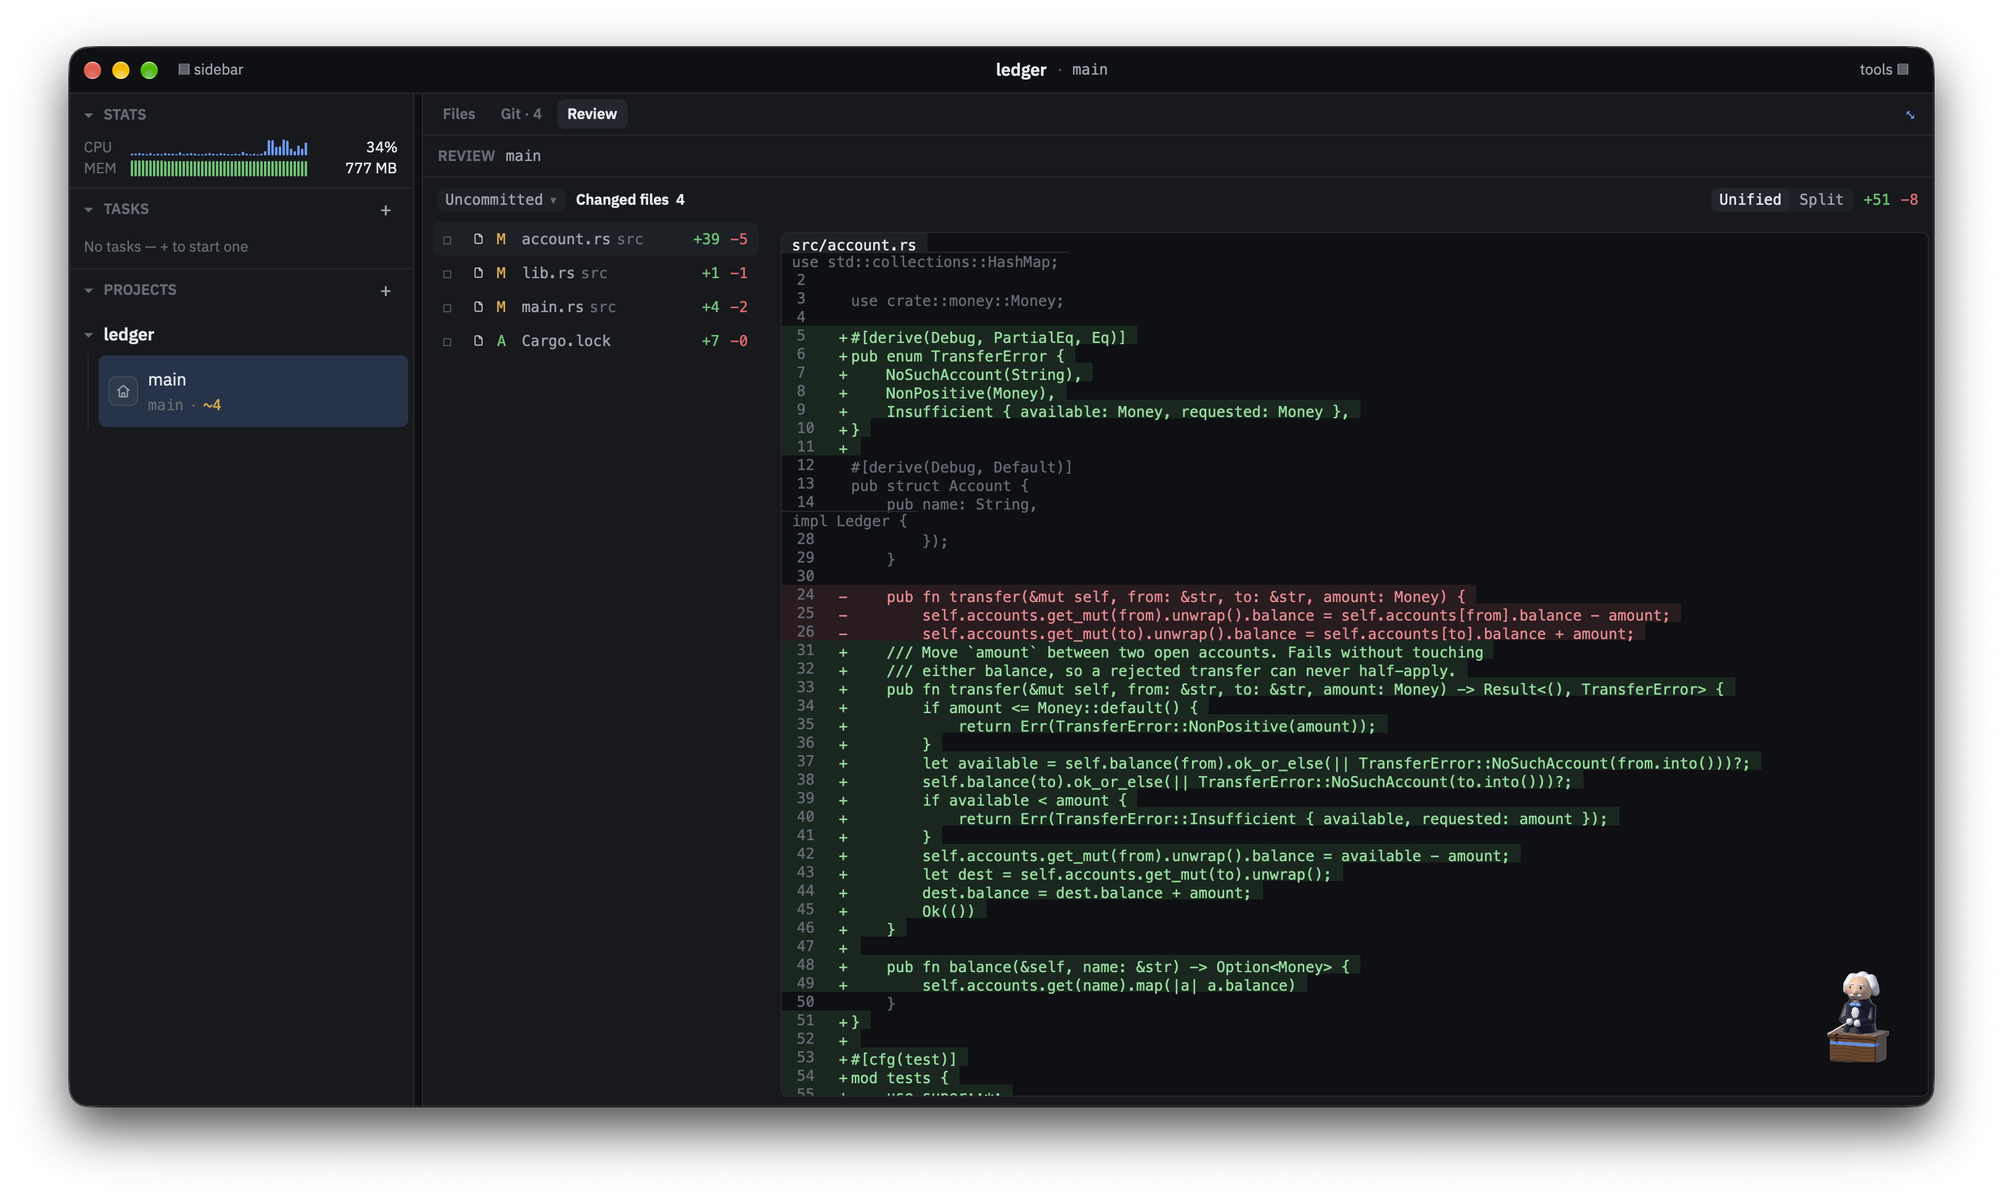
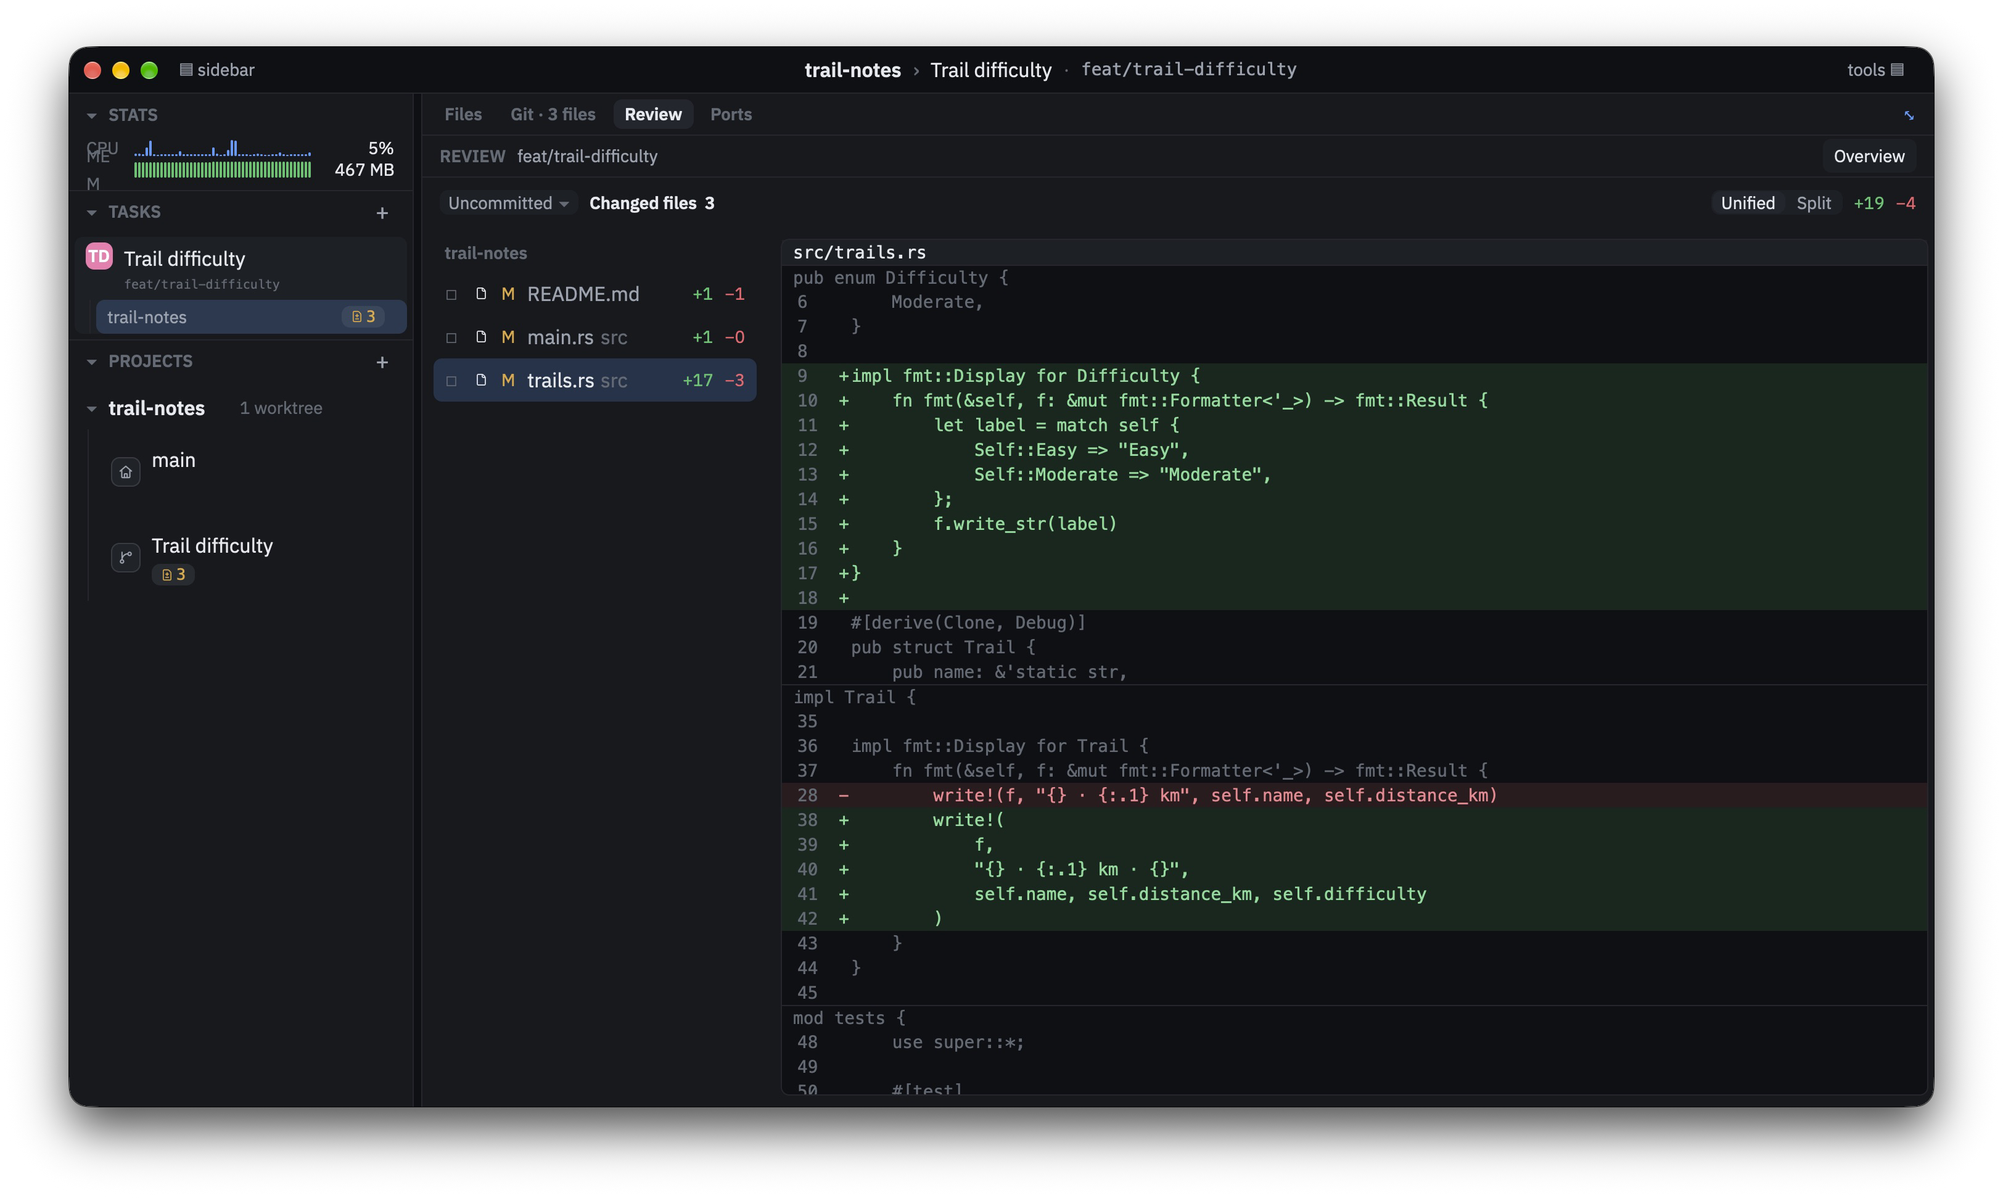
docs: streamline README and refresh screenshots

diff --git a/README.md b/README.md
@@ -1,5 +1,5 @@
 <p align="center">
-  <img src="assets/openorchestra_1024.png" width="128" height="128" alt="openOrchestra app icon">
+  <img src="assets/openorchestra_1024.png" width="96" height="96" alt="openOrchestra app icon">
 </p>
 
 <h1 align="center">openOrchestra</h1>
@@ -7,261 +7,84 @@
 <p align="center">
   <a href="https://github.com/omarpr/openorchestra/actions/workflows/ci.yml"><img src="https://github.com/omarpr/openorchestra/actions/workflows/ci.yml/badge.svg?branch=master" alt="CI"></a>
   <a href="https://github.com/omarpr/openorchestra/releases/latest"><img src="https://img.shields.io/github/v/release/omarpr/openorchestra?sort=semver&label=release" alt="Latest release"></a>
-  <a href="packaging/homebrew/README.md"><img src="https://img.shields.io/badge/brew-omarpr%2Ftap%2Fopenorchestra-orange?logo=homebrew&logoColor=white" alt="Homebrew: brew install --cask omarpr/tap/openorchestra"></a>
-  <img src="https://img.shields.io/badge/macOS-12%2B-black?logo=apple&logoColor=white" alt="macOS 12 or later">
-  <a href="LICENSE"><img src="https://img.shields.io/badge/license-GPL--3.0--or--later-blue" alt="License: GPL-3.0-or-later"></a>
-  <img src="https://img.shields.io/badge/built%20with-Rust%20%2B%20GPUI-dea584?logo=rust&logoColor=white" alt="Built with Rust and GPUI">
-  <a href="https://join.slack.com/t/openorchestra-group/shared_invite/zt-4h5n9li83-bbPit9xyTUvizQt7wh9bgQ"><img src="https://img.shields.io/badge/Slack-join%20the%20community-4A154B?logo=slack&logoColor=white" alt="Join the openOrchestra Slack"></a>
+  <a href="LICENSE"><img src="https://img.shields.io/badge/license-GPL--3.0--or--later-blue" alt="License GPL-3.0-or-later"></a>
 </p>
 
-A native macOS workspace for running coding agents (pi, Claude Code, Codex,
-OpenCode, Kimi and Grok) in parallel, each in its own git worktree, next to a
-real embedded zed editor. Agents live in tmux sessions, so they keep running when the
-app closes. Their changes appear in a diff panel you can review and comment on,
-and a native notification tells you when one needs you. Tasks that span several
-repos get one specialist agent per repo, coordinated over a localhost A2A
-broker.
+A native macOS workspace for running coding agents in parallel Git worktrees, editing
+with Zed, and reviewing changes before you ship. openOrchestra runs locally and
+requires no openOrchestra account. It collects no telemetry.
 
-Everything runs on your Mac. There's no account, no cloud and no telemetry.
-
-![A Claude Code agent running in a worktree, with the sidebar on the left and the git changes panel on the right](docs/screenshots/running-agent.png)
-
-## Features
-
-- **Tasks in worktrees.** `⌘N` creates a task: a git worktree on its own
-  branch, with its own terminals, editor and agent. The sidebar groups tasks by
-  project and shows each one's branch, PR, ahead/behind, uncommitted changes,
-  CI status, and an agent pill (Running, Waiting, Stopped).
-- **Any agent CLI.** Each agent is the vendor's own CLI with your own login,
-  running in an embedded terminal. A new task starts its agent. A project's main
-  checkout opens with a plain shell, and the tab strip's `＋` adds more agents,
-  terminals or editors.
-- **Sessions that outlive the app.** Every terminal and agent tab is a tmux
-  session. Quitting or crashing doesn't stop the agent, and reopening
-  reattaches.
-- **A real IDE.** `⌘E` opens zed's own workspace for the worktree: file tree,
-  `⌘P` quick-open, `⌘⇧F` project search, the git panel, Markdown preview and
-  zed's language-server support (rust-analyzer for Rust). You get syntax
-  highlighting for every language zed has built in: Rust, TypeScript/TSX,
-  JavaScript, Go (plus go.mod and go.work), Python, C, C++, JSON and JSONC,
-  YAML, CSS, Bash and `.env`, Markdown, diffs, git commit messages, JSDoc and
-  regular expressions.
-- **Diff review.** Each changed file expands inline with real line numbers. You
-  can use a side-by-side view, pick the diff base, and tick "reviewed" boxes
-  that track progress. Click a line number to comment, then copy every comment
-  as feedback for the agent or save them as Markdown. You can push from the
-  diff header.
-- **Multi-repo tasks.** A task can include several projects. Each one gets a
-  specialist agent, and a coordinator agent delegates to them through the A2A
-  broker (`crates/a2a-broker`).
-- **Setup and teardown scripts.** Each project's `⋯` menu has **Edit setup
-  scripts…**. Scripts committed to the repo (`.openorchestra/hooks.toml`) or
-  kept locally run when a worktree is created or archived. Before running
-  committed scripts, the app asks you to confirm.
-- **Notifications.** When an agent is waiting on you, you get a native banner
-  with a **View** button. `⌘⇧A` jumps to the next waiting agent.
-- **Remote control from your phone** on your home network (see below).
-- **Footprint monitor.** The sidebar's STATS band shows the app's own CPU and
-  memory use, broken down by worktree, including the agents' processes.
-
-### The embedded editor
-
-The editor tab is zed's own workspace for the worktree: file tree, syntax
-highlighting and git gutter markers on what the agent changed.
-
-![The embedded zed editor showing a file tree and a Rust file with changed lines marked in the gutter](docs/screenshots/inside-editor.png)
-
-### Reviewing the agent's changes
-
-The Review panel lists the changed files against the chosen base
-(uncommitted work here), with unified or split diffs and real line numbers.
-
-![The Review panel showing four changed files and a unified diff of account.rs](docs/screenshots/embedded-diff.png)
-
-## Requirements
-
-- macOS 12 or later.
-- **git** and **tmux** are required. The app shows a requirements screen until
-  both are found.
-- Recommended: at least one agent CLI (`pi`, `claude`, `codex`, `opencode`,
-  `kimi` or `grok`). Without one, agent tabs fall back to a plain shell.
-- Optional: `gh` (PR and CI badges) and `rust-analyzer` (Rust language
-  features).
-
-The requirements screen lists anything missing, with the command that installs
-it.
+![A pi agent in the Trail Notes worktree with Git changes visible in the tools panel](docs/screenshots/running-agent.png)
 
 ## Install
-
-With [Homebrew](https://brew.sh):
 
 ```sh
 brew install --cask omarpr/tap/openorchestra
 ```
 
-This also installs `tmux`. Or download the `.dmg` from the
-[Releases](https://github.com/omarpr/openorchestra/releases) page. It is a
-universal build (Apple Silicon and Intel), signed and notarized, so it opens
-with a double-click.
+Or download the signed, notarized universal DMG for Apple Silicon and Intel.
+[GitHub Releases](https://github.com/omarpr/openorchestra/releases/latest)
 
-## Build from source
+Requires **macOS 12 or later**, **Git**, and **tmux**. Homebrew installs tmux with
+the app. Install and sign in to the agent CLI you want to use. Install and
+authenticate `gh` to show pull request and CI status.
+
+## Features
+
+- **Parallel tasks.** Press `⌘N` to start a task on its own branch and worktree.
+  Multi-repository tasks can run a specialist in each repo and a coordinator
+  that delegates over a local A2A broker. Setup and teardown hooks can prepare
+  or clean up worktrees.
+- **Agent and shell tabs.** Run OpenCode, Claude Code, Codex, pi, Kimi, Grok, or
+  a custom CLI. tmux keeps sessions running when you quit and lets you reattach
+  when you reopen the app. The sidebar tracks agent activity, Git changes, pull
+  requests, and CI. Native notifications take you back to agents that need input.
+- **Embedded Zed editor.** Open the editor with `⌘E`. Browse files, quick-open
+  with `⌘P`, search the project, preview Markdown, and use syntax highlighting
+  and language-server support.
+- **Diff review.** Choose a comparison base, switch between unified and split
+  diffs, mark files reviewed, and leave line comments. Copy comments into an
+  agent prompt or save them as Markdown.
+- **Review Overview.** Generate a branch and working-tree review with Codex,
+  Claude Code, pi, or Grok. Follow the report’s links into the editor and open
+  a follow-up chat with supported agents.
+- **Local development servers.** The Ports panel finds listening services,
+  including Docker-published ports, and lets you open or copy their URLs.
+  WebKit browser tabs can open local development links alongside the editor and
+  terminals. [Browser tabs are unreleased](CHANGELOG.md#unreleased).
+- **Phone and tablet access.** Share individual agent or shell tabs on your
+  local network. Follow conversations or use the terminal, send replies and
+  screenshots, and dictate on supported Macs. [Remote setup](docs/remote-control.md)
+- **Resource monitoring.** See CPU and memory usage for the app and its
+  worktrees, including agent processes.
+
+<details>
+<summary>Editor and diff review screenshots</summary>
+
+![The embedded Zed editor with Rust syntax highlighting, Git gutter markers, and the file explorer](docs/screenshots/inside-editor.png)
+
+![The Review panel showing changed files and a diff with word-level highlights](docs/screenshots/embedded-diff.png)
+
+</details>
+
+## Develop
+
+Run `make run` for the debug app or build a local app bundle.
 
 ```sh
 make setup && make app && open dist/openOrchestra.app
 ```
 
-- `make setup` installs/verifies the build and runtime tools (idempotent).
-- `make app` builds a release bundle for the host architecture into
-  `dist/openOrchestra.app`.
-- `make dmg` builds a universal (Apple Silicon + Intel) bundle and a `.dmg`
-  beside it. `make dmg-notarized` additionally signs it with Developer ID and
-  notarizes it with Apple, so the download opens on a plain double-click;
-  `make release` does that and publishes to GitHub Releases.
-- First launch will ask for notification permission — that's the
-  "agent needs your attention" banners with their View button.
-
-For development iterations, `make run` builds and launches the debug app in a
-separate `.app` bundle. This lets the development build use native macOS
-notifications; logs remain attached to the terminal.
-
-## Keyboard shortcuts
-
-These are the defaults. You can see and rebind all of them in **Settings →
-Shortcuts** (`⌘,`).
-
-| Shortcut | Action |
-|---|---|
-| `⌘N` | New task |
-| `⌘T` | New terminal tab |
-| `⌘E` | Open the editor (IDE) tab |
-| `⌘⇧C` | New agent chat tab |
-| `⌘W` | Close tab |
-| `⌘⌥↓` / `⌘⌥↑` | Next / previous worktree |
-| `⌘⇧]` / `⌘⇧[` | Next / previous tab |
-| `⌘1`…`⌘8`, `⌘9` | Go to tab N, last tab |
-| `⌘⇧A` | Jump to the next agent waiting on you |
-| `⌘B` | Toggle the sidebar |
-| `⌘⇧B` | Toggle the tools panel |
-| `⌘P` | Find file by name (in the editor) |
-| `⌘⇧F` | Find in files |
-| `⌘⇧D` | Project diff (git) |
-| `⌘⇧G` | Toggle the git panel |
-| `⌘F` | Find in the current file |
-
-## Where state lives
-
-App state is kept under `~/.openorchestra`: preferences, open tabs,
-review comments (`review-notes.json`), saved reviews (`reviews/`), local hook
-overrides (`hooks/`) and the remote-control settings (`remote.json`). Nothing is
-written into your repositories except worktrees and, if you choose, committed
-hook scripts.
-
-## Remote control from your phone
-
-You can follow and type into your agents from a phone or tablet on the same
-home network. Only tabs you mark are reachable; everything else on the Mac
-stays invisible.
-
-1. Right-click a terminal or agent tab and choose **Allow remote control**.
-2. Open **Settings → Remote** and turn it **On** (HTTPS on port 7443).
-3. Click **Add a phone** and scan the QR code. It opens a short setup page that
-   installs and trusts the app's own certificate authority (an iOS profile, or
-   a CA certificate on Android). Check that the fingerprint on the phone
-   matches the one in Settings.
-4. On the phone, open `https://<your-mac-name>.local:7443` (iPhone/iPad), or
-   `https://<Mac IP address>:7443` (Android), and add it to the home screen.
-5. Enter the 8-character pairing code shown in Settings. It works once and
-   expires after 10 minutes.
-
-Android tip: `.local` names often don't resolve on Android, so use the Mac's IP
-address. If the Mac's IP changes, Settings shows a notice and the phone's saved
-address needs updating. Changing the port also means re-adding the app on each
-phone.
-
-The phone app is called openOrchestra. On an iPhone or iPad opened in Safari it
-first asks you to add it to your Home Screen, so you pair once in the installed
-app (a "Pair in this browser instead" link skips that). The agent list shows
-each agent's icon and a status pill (RUNNING, WAITING, STOPPED).
-
-Opening an agent shows a **Conversation | Terminal** switch. For Claude Code and
-pi agents the Conversation view is the default: your messages and the agent's
-replies verbatim (with Markdown), one-line tool calls with a check or cross
-(tap one to see its output, capped at 64 KB), collapsed thinking, and a status
-bar ("Working…" with the current tool, "Needs your input", "Agent stopped").
-Images in replies are not shown. The switch appears once the agent has a transcript (a brand-new Claude Code or
-pi agent shows the Terminal until its first message), and your last choice per
-agent is remembered. Other agents (for example Codex) show the Terminal only.
-
-On the Mac, a chip in the top bar shows whether the current terminal or agent
-tab is reachable from a phone, and **Settings → Remote → Agents on phone**
-turns each tab on or off.
-
-In Settings you can set a device to **Watch only** or **Revoke** it, and keep
-the Mac awake while serving. Phones on the local network only (private
-addresses) are accepted. A manual test list is in
-[`docs/superpowers/plans/2026-11-16-oo-remote-manual-checklist.md`](docs/superpowers/plans/2026-11-16-oo-remote-manual-checklist.md).
-The PWA source is in `web/remote` (`make web` builds it); the server is the
-`oo-remote` crate in `crates/remote`.
-
-## Repository layout
-
-| Path | What it is |
-|---|---|
-| `crates/harness-app` | The GPUI desktop app (its own Cargo workspace, see [CONTRIBUTING](CONTRIBUTING.md)) |
-| `crates/worktrees`, `forge`, `status-watch` | Git worktrees and hooks, `gh` PR/CI polling, agent status signals |
-| `crates/agent-runtime`, `pi-client` | Per-agent launch and status adapters, the pi RPC client |
-| `crates/a2a-broker` | The localhost agent-to-agent broker for multi-repo tasks |
-| `crates/remote` | `oo-remote`, the phone remote-control server |
-| `crates/agent-schema`, `crates/training` | The pi tool contract and session harvesting ([`agent-schema/`](agent-schema/README.md), [`training/`](training/README.md) hold their data and docs) |
-| `pi-ext` | pi extensions loaded per worktree (status signal, harness tools) |
-| `web/remote` | The phone web app (PWA) |
-| `docs` | Design records. [`architecture.md`](docs/architecture.md) is a dated snapshot; `docs/superpowers/` holds specs and plans |
-
-## Contributors
-
-<table>
-  <tr>
-    <td align="center">
-      <a href="https://github.com/omarpr">
-        <img src="https://avatars.githubusercontent.com/u/4412916?v=4" width="88" height="88" alt="omarpr"><br>
-        <sub><b>omarpr</b></sub>
-      </a>
-    </td>
-    <td align="center">
-      <a href="https://github.com/joeswiggin">
-        <img src="https://avatars.githubusercontent.com/u/4819705?v=4" width="88" height="88" alt="joeswiggin"><br>
-        <sub><b>joeswiggin</b></sub>
-      </a>
-    </td>
-    <td align="center">
-      <a href="https://github.com/jakesorce">
-        <img src="https://avatars.githubusercontent.com/u/801470?v=4" width="88" height="88" alt="jakesorce"><br>
-        <sub><b>jakesorce</b></sub>
-      </a>
-    </td>
-  </tr>
-</table>
+View or rebind shortcuts in **Settings → Shortcuts** (`⌘,`).
+[Development setup and contribution guide](CONTRIBUTING.md#development-setup)
 
 ## Community
 
-Join the [openOrchestra Slack](https://join.slack.com/t/openorchestra-group/shared_invite/zt-4h5n9li83-bbPit9xyTUvizQt7wh9bgQ) to ask questions, share how you use it,
-and hear about new releases. Bugs and feature ideas still belong in
-[GitHub issues](https://github.com/omarpr/openorchestra/issues), and security
-reports go through [SECURITY.md](SECURITY.md).
+Join the [Slack community](https://join.slack.com/t/openorchestra-group/shared_invite/zt-4h5n9li83-bbPit9xyTUvizQt7wh9bgQ),
+report bugs or request features in [GitHub Issues](https://github.com/omarpr/openorchestra/issues),
+or follow the [security reporting policy](SECURITY.md). Thanks to
+[omarpr](https://github.com/omarpr), [joeswiggin](https://github.com/joeswiggin),
+[jakesorce](https://github.com/jakesorce), and all
+[contributors](https://github.com/omarpr/openorchestra/graphs/contributors).
 
-## Contributing
-
-[`CONTRIBUTING.md`](CONTRIBUTING.md) covers the setup, the project invariants,
-and the one build gotcha that bites everyone: `crates/harness-app` is outside the
-root workspace, so a root `cargo build` skips it and still reports success.
-By taking part you agree to the [Code of Conduct](CODE_OF_CONDUCT.md).
-
-## License
-
-[GPL-3.0-or-later](LICENSE).
-
-Not a preference — a consequence. openOrchestra embeds a real zed editor, and the
-crates it links (`workspace`, `project`, `editor`, `git_ui`, `search`,
-`terminal`, `theme`, and the rest) are GPL-3.0-or-later, so anything distributed
-with them must be too. `gpui` and `util` are Apache-2.0, which combines into a
-GPLv3 work in that direction.
+[Changelog](CHANGELOG.md) · [Code of Conduct](CODE_OF_CONDUCT.md) · [GPL-3.0-or-later](LICENSE)

diff --git a/docs/remote-control.md b/docs/remote-control.md
@@ -1,0 +1,42 @@
+# Remote control from a phone or tablet
+
+openOrchestra shares selected agent and shell tabs over HTTPS on your local
+network. Keep the phone or tablet on the same network as your Mac.
+
+## Pair a device
+
+1. On the Mac, open **Settings → Remote** and turn remote control on. The
+   default HTTPS port is 7443.
+2. Click **Add a device** and scan the setup QR code. Follow the instructions
+   to install and trust the app’s local certificate authority. Check that the
+   certificate fingerprint shown on the device matches the one in Settings.
+3. Open the HTTPS address displayed on the Mac. On Android, use the Mac’s IP
+   address if its `.local` name fails to resolve. On iPhone or iPad, Safari
+   offers to add openOrchestra to the Home Screen so you can pair in the
+   installed web app. You can also choose **Pair in this browser instead**.
+4. Enter the eight-character pairing code from the Mac. The code works once
+   and expires after 10 minutes.
+
+If the Mac’s IP address or remote port changes, update the address on the
+device or add the web app to your Home Screen again.
+
+## Share and use tabs
+
+Right-click an agent or shell tab on the Mac and select **Allow remote control**.
+Use **Settings → Remote → Agents on phone** to manage shared tabs in one place.
+The top bar shows whether the selected tab is available remotely.
+
+Open a shared tab on your device to see its status and interact with it.
+Conversation view becomes available when a supported agent produces a
+transcript. Claude Code, Codex, OpenCode 2.x, and pi are supported. You can
+switch to **Terminal** at any time. For writable tabs, you can attach PNG,
+JPEG, and WebP screenshots up to 8 MiB. Dictation uses on-device transcription
+on supported Macs running macOS 26 or later.
+
+In **Settings → Remote**, set a paired device to **Watch only** to disable input
+or select **Revoke** to remove access. You can also keep the Mac awake while
+remote control is on.
+
+The remote client lives in [`web/remote`](../web/remote), and its server is in
+[`crates/remote`](../crates/remote).
+[Manual test checklist](superpowers/plans/2026-11-16-oo-remote-manual-checklist.md)
